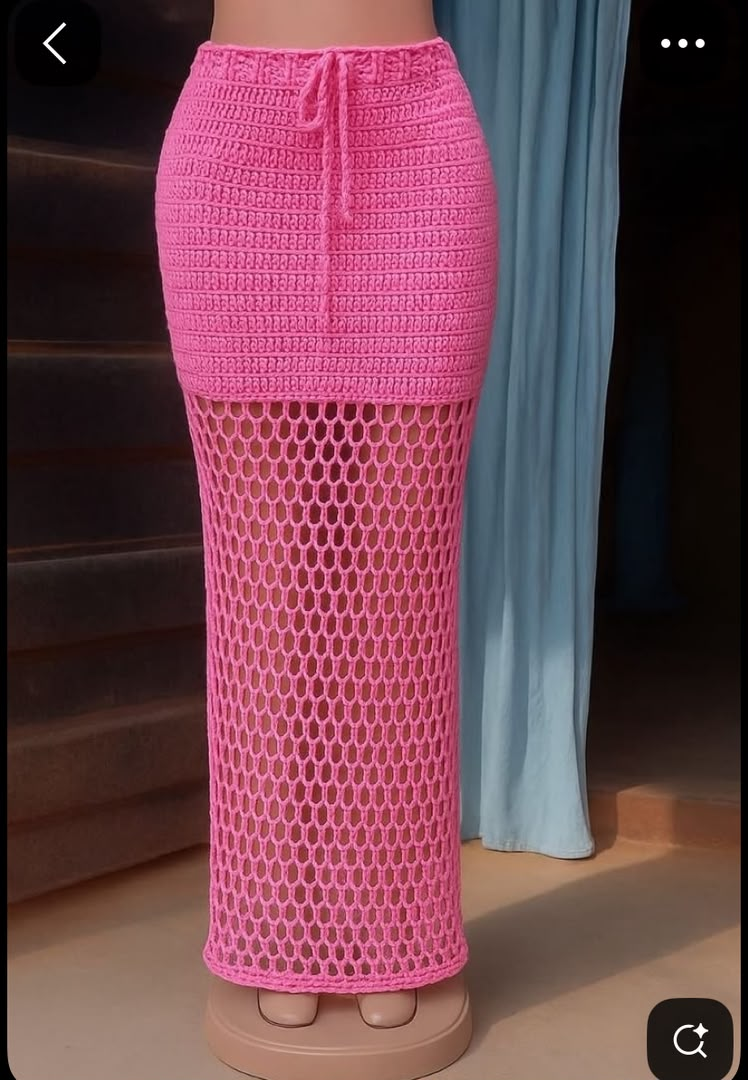
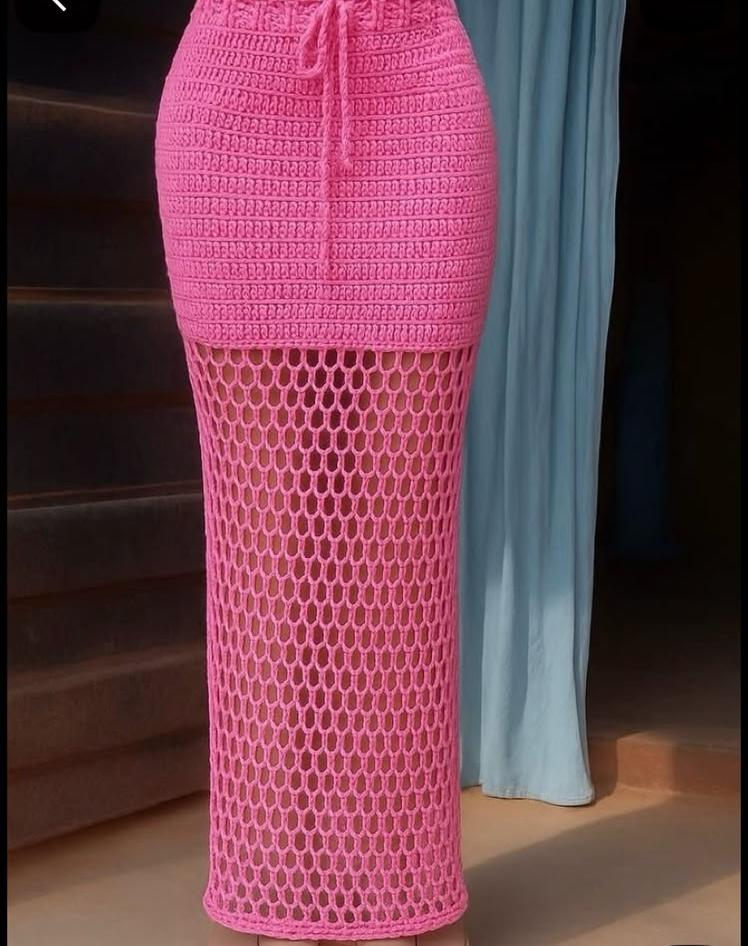
picture

diff --git a/album.html b/album.html
@@ -81,6 +81,7 @@
             <button data-src="64.jpeg" data-item="Scrunchies"><img src="64.jpeg" alt="Crochet model 2" loading="lazy"></button>
             <button data-src="66.jpeg" data-item="Scrunchies"><img src="66.jpeg" alt="Crochet model 2" loading="lazy"></button>
             <button data-src="49.jpeg" data-item="Scrunchies"><img src="49.jpeg" alt="Crochet model 2" loading="lazy"></button>
+            <button data-src="41.jpeg" data-item="Ruffle crochet hat"><img src="41.jpeg" alt="Crochet model 3" loading="lazy"></button>
             <button data-src="50.jpeg" data-item="Ruffle crochet hat"><img src="50.jpeg" alt="Crochet model 3" loading="lazy"></button>
             <button data-src="51.jpeg" data-item="Ruffle crochet hat"><img src="51.jpeg" alt="Crochet model 3" loading="lazy"></button>
             <button data-src="52.jpeg" data-item="Ruffle crochet hat"><img src="52.jpeg" alt="Crochet model 3" loading="lazy"></button>

diff --git a/js/products.js b/js/products.js
@@ -284,7 +284,7 @@ var PRODUCTS = {
   "Skirt-41": {
     title: "Skirt",
     desc: "Two-pieces items are available, choose your color",
-    sizes: {"small": 25000,"large": 25000,"XL": 30000},
+    sizes: {"small": 30000,"large": 30000,"XL": 35000},
     photos: ["41"]
   },
   
